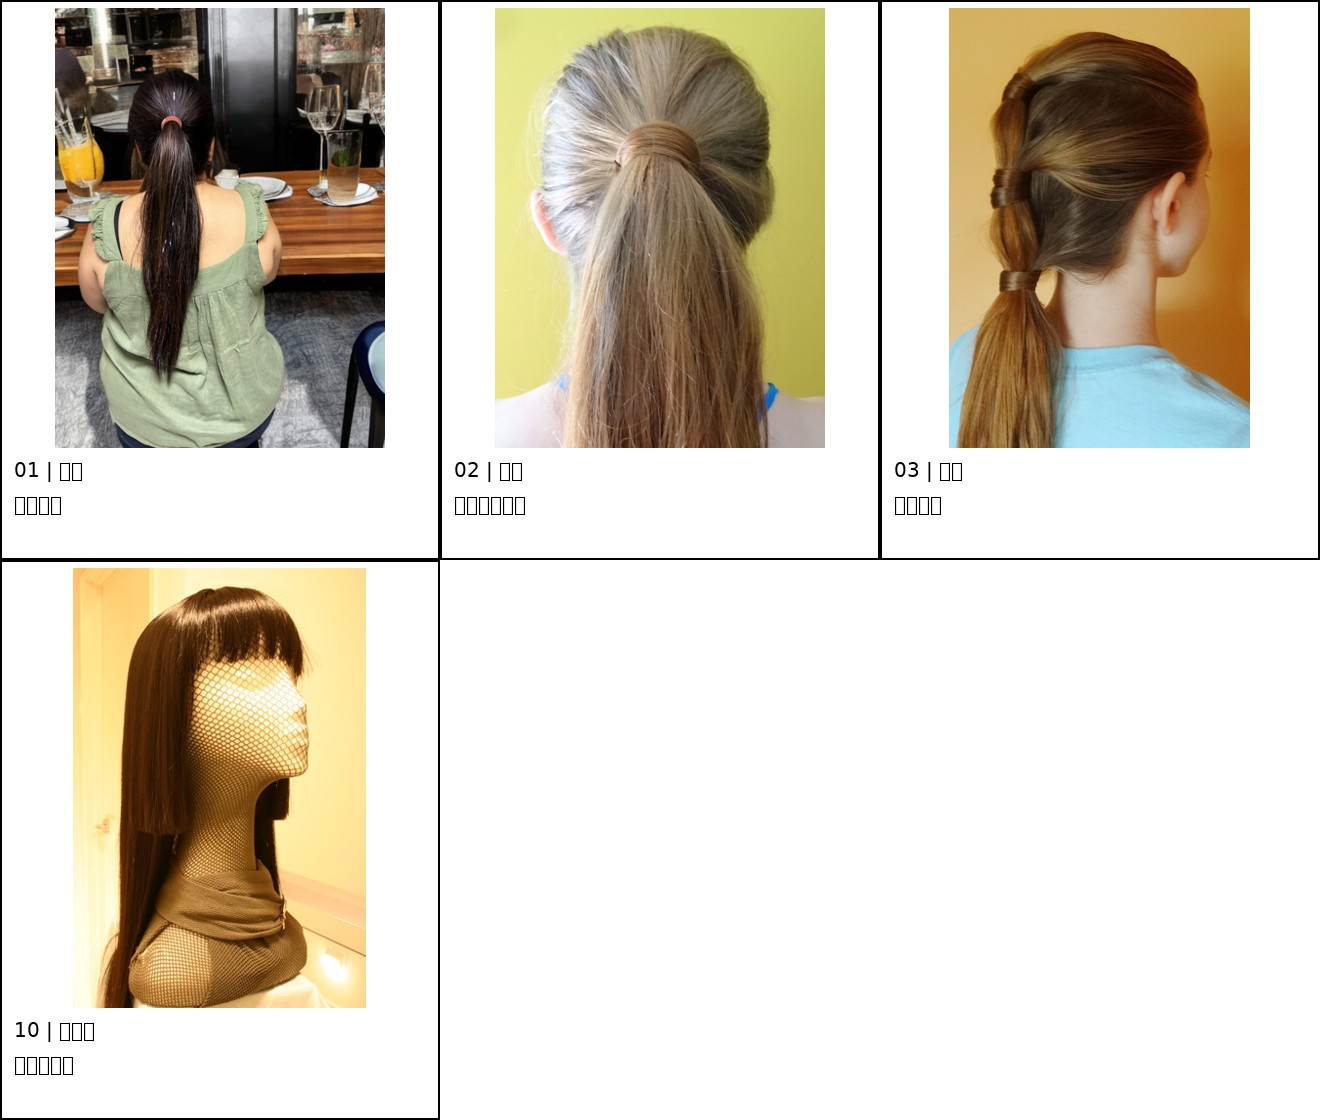
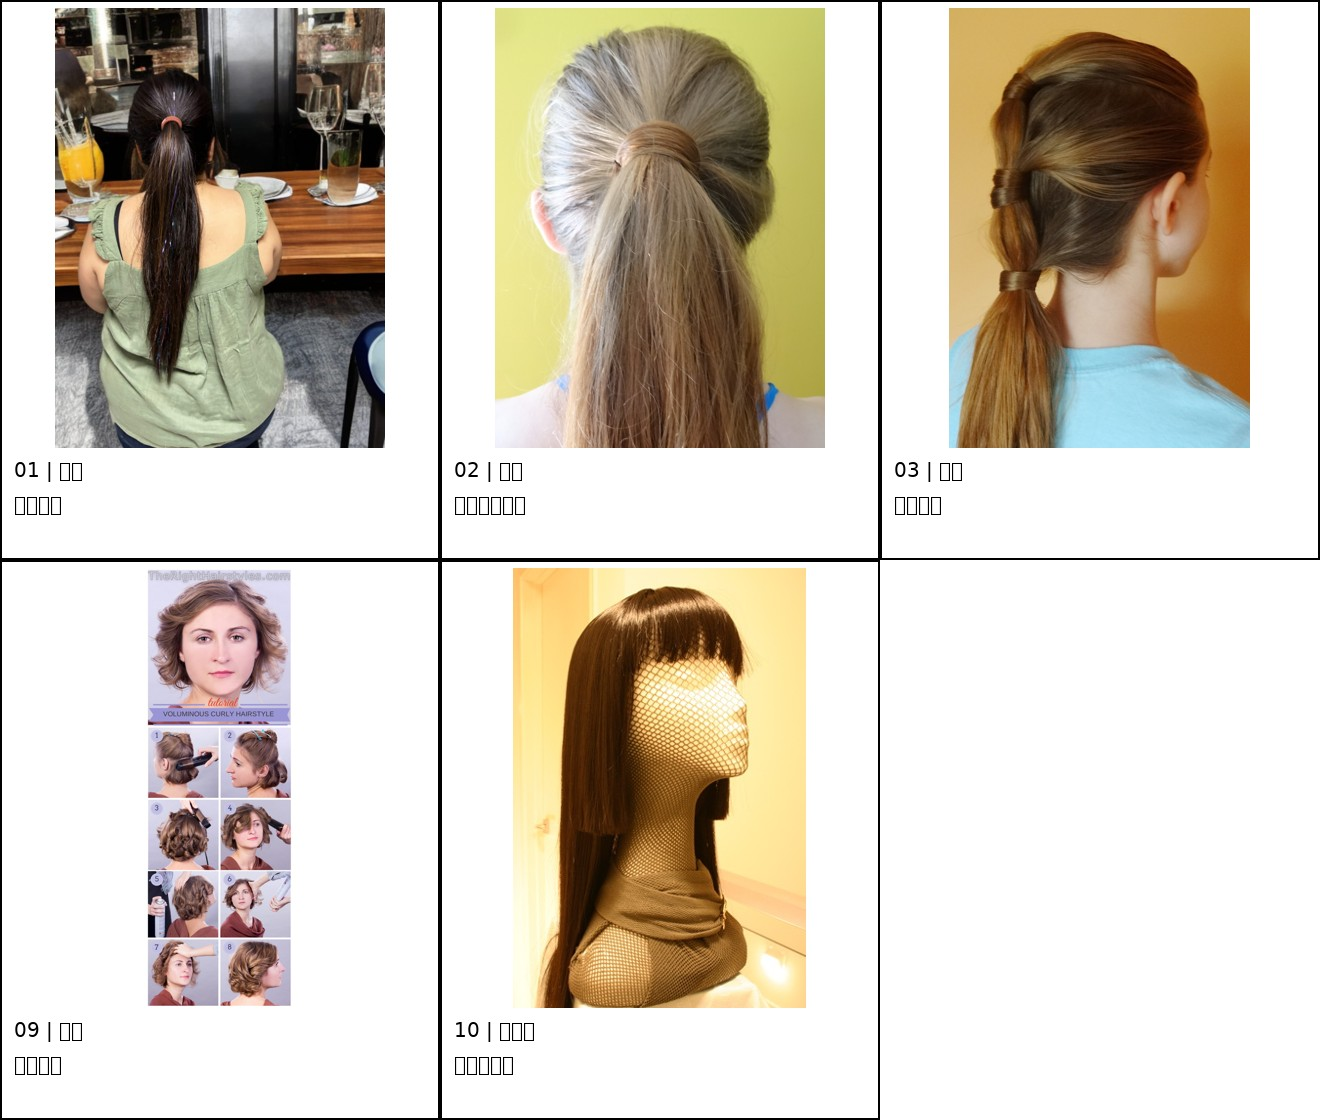
R2：下载批次01候选并生成联系表

Changed region(s): [[0.3417, 0.5, 0.6212, 0.9688], [0.0311, 0.5, 0.2795, 0.9062], [0.0, 0.9062, 0.0311, 0.9375]]

diff --git a/05-银矿库/角色库/发型库总表/R2_批次01候选清单.md b/05-银矿库/角色库/发型库总表/R2_批次01候选清单.md
@@ -1,7 +1,7 @@
 # R2 批次01候选清单
 
 - 目标：18张
-- 成功下载：4张
+- 成功下载：5张
 - 此阶段只完成来源解析、下载和联系表，不代表审美与结构审计通过。
 
 ## 01｜马尾｜直顺马尾
@@ -86,13 +86,13 @@
 
 ## 09｜卷发｜蓬松卷发
 - Commons文件：`Voluminous curly hairstyle.jpg`
-- 状态：`failed`
-- 尺寸：未知
-- 作者：未解析
-- 许可：未解析
-- 来源页：未解析
-- 本地文件：`未保存`
-- 失败原因：429 Client Error: Too many requests (f061ab2) for url: https://upload.wikimedia.org/wikipedia/commons/9/93/Voluminous_curly_hairstyle.jpg
+- 状态：`downloaded`
+- 尺寸：500x1500
+- 作者：Maria Kravets
+- 许可：CC BY-SA 4.0
+- 来源页：https://commons.wikimedia.org/wiki/File:Voluminous_curly_hairstyle.jpg
+- 本地文件：`05-银矿库/角色库/发型库总表/assets/refs/batch01_r2/candidates/09_卷发_蓬松卷发.jpg`
+- 失败原因：无
 
 ## 10｜公主切｜经典公主切
 - Commons文件：`Hime cut.jpg`
